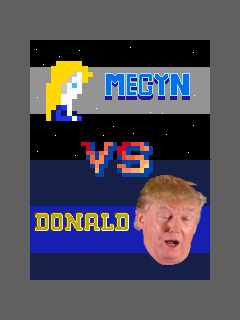
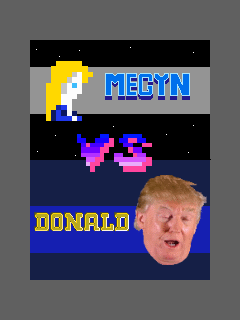
updated vs screens with new vs font

Changed region(s): [[0.3208, 0.4062, 0.6417, 0.5625]]

diff --git a/examples/trump/game/src/gameHelper.js b/examples/trump/game/src/gameHelper.js
@@ -14,6 +14,8 @@ var gameHelper = {
 
 	fadeOut: function() {
 		viz.audio.menu.play() ;
+		viz.audio.music.volume = 0 ;
+		viz.audio.music.fade() ;
 		viz.fade({
 		  opacity: 0,
 		  duration: viz.fadeDuration,
@@ -30,11 +32,11 @@ var gameHelper = {
 		viz.audio = {} ;
 
 	  viz.audio.thud     = audioLoader.cache['./audio/thud.wav'] ;
-	  viz.audio.hit      = audioLoader.cache['./audio/hit2.wav'] ;
+	  // viz.audio.hit      = audioLoader.cache['./audio/hit2.wav'] ;
 	  viz.audio.jump1    = audioLoader.cache['./audio/jump1.wav'] ;
 	  viz.audio.bullet   = audioLoader.cache['./audio/bullet2.wav'] ;
 	  viz.audio.laugh1   = audioLoader.cache['./audio/laugh1.wav'] ;
-	  viz.audio.bump     = audioLoader.cache['./audio/bump2.wav'] ;
+	  // viz.audio.bump     = audioLoader.cache['./audio/bump2.wav'] ;
 	  viz.audio.powerup0 = audioLoader.cache['./audio/powerup0.wav'] ;
 	  viz.audio.powerup3 = audioLoader.cache['./audio/powerup3.wav'] ;
 	  viz.audio.menu     = audioLoader.cache['./audio/pump.wav'] ;
@@ -45,7 +47,7 @@ var gameHelper = {
 	  viz.audio.missile  = audioLoader.cache['./audio/missile1.wav'] ;
 	  viz.audio.laser    = audioLoader.cache['./audio/laser2.wav'] ;
 	  viz.audio.grunt    = audioLoader.cache['./audio/grunt.wav'] ;
-	  viz.audio.word     = audioLoader.cache['./audio/grunt2.wav'] ;
+	  // viz.audio.word     = audioLoader.cache['./audio/grunt2.wav'] ;
 	  viz.audio.ah       = audioLoader.cache['./audio/ah.wav'] ;
 
 	  // console.log('viz audio menu', 'viz.audio.menu', viz.audio.menu)
@@ -54,9 +56,12 @@ var gameHelper = {
 
 	  // viz.audio.powerup3.volume *= 0.5 ;
 	  
-	  viz.audio.menu.volume	*= 1 / 3 ;
-  	viz.audio.thud.volume	*= 3 / 4 ;
-	  viz.audio.music       = audioLoader.cache[viz.config.music] ;
+	  viz.audio.menu.volume	 *= 0.5 ;
+  	viz.audio.thud.volume	 *= 0.75 ;
+  	viz.audio.grunt.volume *= 0.75 ;
+  	viz.audio.laser.volume *= 0.5 ;		
+
+	  viz.audio.music = audioLoader.cache[viz.config.music] ;
 
 	  // console.log('fighter helper load audio end', 'viz.audio', viz.audio) ;
 	
@@ -154,11 +159,10 @@ var gameHelper = {
 		var xTrans = $Z.transition.rounded_linear_transition_func('x', viz.fadeDuration * 1.5)(electX) ;
 
 		var fade = 4 ;
-		var delay = 0.25 ;
-		viz.audio.elect.play(delay) ;
+		viz.audio.elect.play() ;
 	  viz.audio.elect.gain.gain.value = 0 ;
 	  viz.audio.elect.volume = 0.75 ;
-		viz.audio.elect.fade(fade, delay) ;
+		viz.audio.elect.fade(fade) ;
 
 		// xTrans.end = function() {
 		//  viz.shake() ;
@@ -168,7 +172,8 @@ var gameHelper = {
 
 		animation.child.child.end = function() {
 
-			viz.audio.fight.play(delay * 1.5) ;
+			var delay = .2 ;
+			viz.audio.fight.play(delay) ;
 			
 			fight.fade({
 				duration: viz.fadeDuration * 2, 
@@ -221,7 +226,7 @@ var gameHelper = {
 
   	viz.audio.music.loop = true ;
   	var delay = 3 ;
-  	viz.audio.music.volume = 0.15 ;
+  	viz.audio.music.volume = 0.5 ;
   	viz.audio.music.play(delay) ;
 
     viz.image = imageHelper.adjust_ratio(imageHelper.image2canvas(viz.config.backgroundImageUrl)) ;  			
@@ -579,7 +584,7 @@ var gameHelper = {
 	    	duration: downDuration,
 	    }) ;
 
-	    word.viz.audio.word.play() ;
+	    // word.viz.audio.word.play() ;
 
 	    //var down   = $Z.transition.rounded_linear_transition_func( 'y', viz.dur * 30 )(viz.player.config.y - wordImage.height * wordCount) ;
 	    //down.child = step_transition_func('dummy', viz.dur * wordPause)(0) ;

diff --git a/examples/trump/src/module/bulletHelper.js b/examples/trump/src/module/bulletHelper.js
@@ -6,7 +6,16 @@ var bulletHelper = {
 
     if (this[bulletName] !== undefined) { // check if this player char shoots bullets
 
+      if (this[bulletName].busy === true) {
+        return ; // some bullets only allow one at a time
+      }
+
+      if (this[bulletName].busy === false) { // i.e. only one bullet is allowed at a time
+        this[bulletName].busy = true ;
+      }
+
       var newBullet = copy_object (this[bulletName]) ;
+      newBullet.original = this[bulletName] ;
 
       // console.log('newBullet', newBullet)
 
@@ -74,6 +83,9 @@ var bulletHelper = {
 
         bullet.inert = true ;
         bullet.removeSwitch = true ;
+        if(bullet.original.busy === true) {
+          bullet.original.busy = false ;
+        }
 
       },
 

diff --git a/examples/trump/src/module/hitHelper.js b/examples/trump/src/module/hitHelper.js
@@ -1,6 +1,6 @@
 var hitHelper = {
 
-  duration: 150,
+  duration: 500,
 
   pair: { // temporary variable used by collision()
     width: null, 
@@ -340,7 +340,6 @@ var hitHelper = {
       var hitDur          = hitHelper.duration ; // ( element.adversary.sprite.attack.length + 20 ) * viz.dur ;
       // var hitTransition   = step_transition_func('image', response.viz.frameDuration * 1.5)(element.sprite.hit[0]) ;
       element.item.image = element.sprite.hit[0] ;
-      element.item.viz.audio.grunt.play() ;
       // console.log('transition hittttt', element.frameDuration) ;
       hitTransition = animate(element.sprite.hit, step_transition_func('image', element.config.hitDuration), undefined, element.sprite.rest[0])[0] ;
 

diff --git a/examples/trump/src/module/fighterHelper.js b/examples/trump/src/module/fighterHelper.js
@@ -160,11 +160,11 @@ var fighterHelper = {
 
       enemyResponseConfig = {
 
-        healthbarY: 2, 
+        healthbarY: 12, 
         healthbarX: Math.floor(viz.width * 0.5) + 1,
         healthdrop: 1,
-        color: '#900',
-        audio: viz.audio.hit,
+        color: '#C00',
+        audio: viz.audio.grunt,
         sourceType: 'player',
 
       } ;   
@@ -176,9 +176,9 @@ var fighterHelper = {
       playerResponseConfig = {
 
         healthdrop: enemyResponseConfig.healthdrop,
-        healthbarY: 2,
+        healthbarY: 12,
         healthbarX: 1,
-        color: '#009', 
+        color: '#00C', 
         audio: viz.audio.hit,
         sourceType: 'enemy',
 

diff --git a/examples/trump/src/module/playerHelper.js b/examples/trump/src/module/playerHelper.js
@@ -350,6 +350,7 @@ var playerHelper = {
       bullet2: beam_transition,
       bullet3: beam_transition,
       jump_bullet_transition: missile_transition,
+      busy: false,
 
     } ;
 

diff --git a/examples/trump/src/module/scoreHelper.js b/examples/trump/src/module/scoreHelper.js
@@ -9,7 +9,7 @@ var scoreHelper = {
     if (scoreConfig === undefined) {
       scoreConfig = {
         x: 2,
-        y: 10,
+        y: 2,
         inert: true,
       } ;
     }
